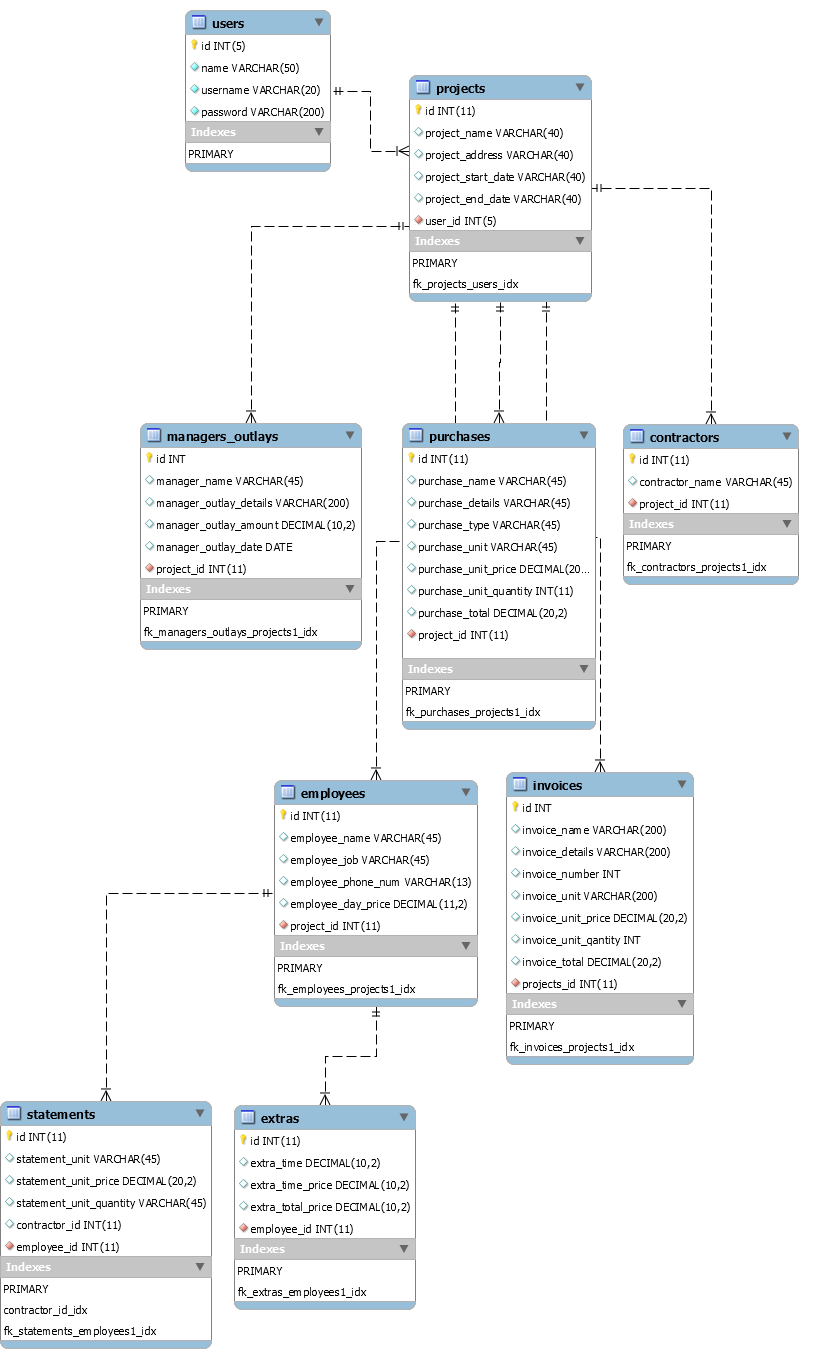
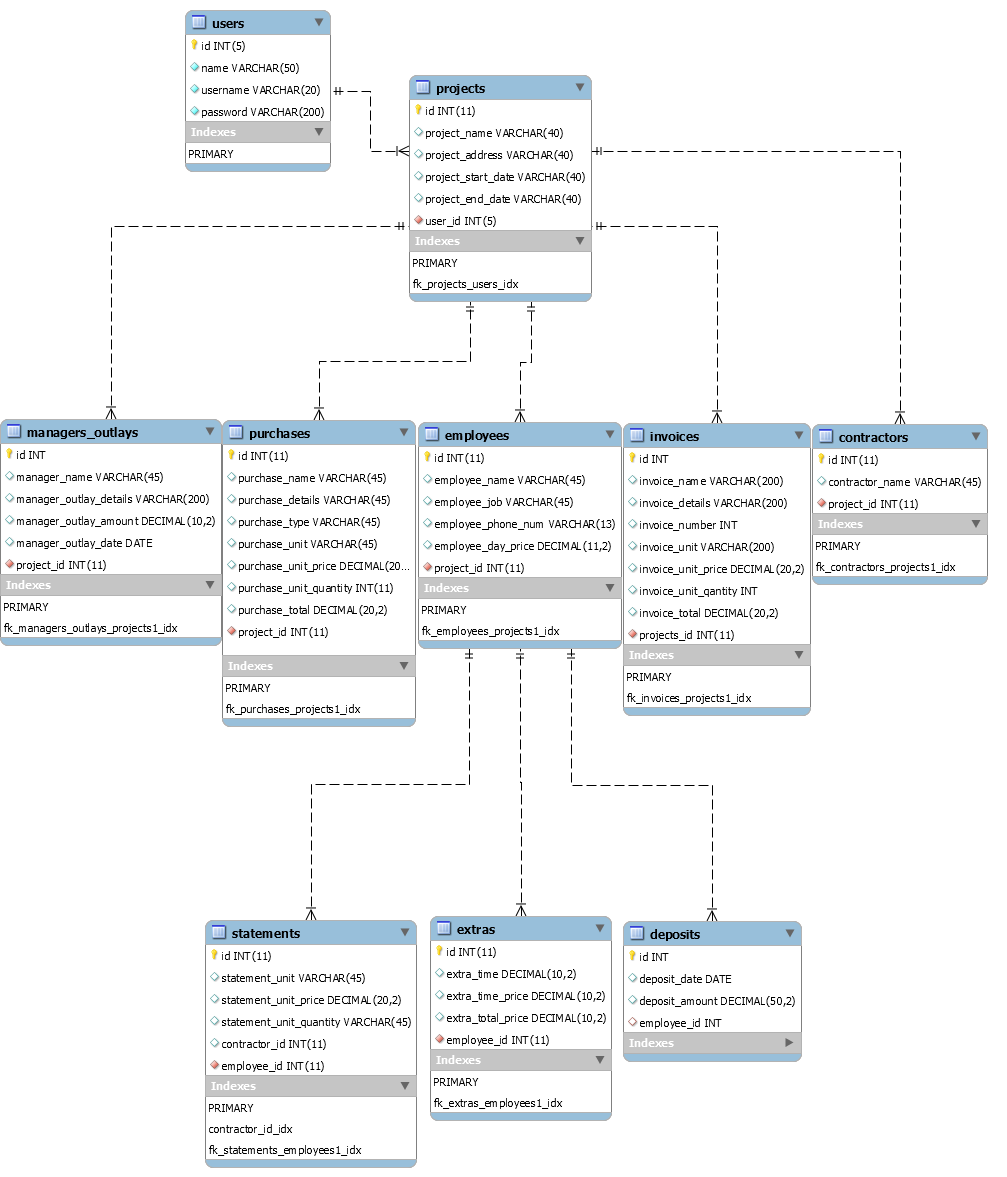
Updates for `deposit`

Changed region(s): [[0.0, 0.3059, 1.0, 1.0], [0.1834, 0.0, 0.7335, 0.2753]]

diff --git a/routes/deposits.js b/routes/deposits.js
@@ -1,0 +1,120 @@
+const express = require('express');
+const security = require('../security/security');
+const database = require('../models/database');
+const router = express.Router();
+
+const dbService = database.getDbServiceInstance();
+
+router.get('/:projectId/', security.checkAuthenticated, async (req, res) => {
+  const { projectId } = req.params;
+
+  const deposits = await dbService.getDepositsByProjectId(projectId);
+
+  res.render('deposits/index', { deposits: deposits, projectId: projectId });
+});
+
+router.get('/:projectId/new', security.checkAuthenticated, (req, res) => {
+  const { projectId } = req.params;
+
+  res.render('purchases/new', { projectId: projectId, label: false });
+});
+
+router.post('/:projectId/create', security.checkAuthenticated, async (req, res) => {
+  try {
+    const purchaseName = req.body.purchaseName;
+    const purchaseUnitPrice = req.body.purchaseUnitPrice;
+    const purchaseUnitQuantity = req.body.purchaseUnitQuantity;
+    const purchasTotal = purchaseUnitPrice * purchaseUnitQuantity;
+    const purchaseType = req.body.purchaseType;
+    const purchaseDetails = req.body.purchaseDetails;
+    const { projectId } = req.params;
+
+    await dbService.addNewPurchase(purchaseName, purchaseUnitPrice, purchaseUnitQuantity, purchasTotal, purchaseType, purchaseDetails, projectId);
+
+    res.redirect('/purchases/' + projectId);
+  } catch (error) {
+    console.log(error.message);
+    res.redirect('/purchases/' + projectId + '/new');
+  }
+});
+
+router.post('/:projectId/delete/:purchaseId', security.checkAuthenticated, async (req, res) => {
+  try {
+    const { projectId ,purchaseId } = req.params;
+
+    const result = await dbService.deletePurchaseById(purchaseId);
+
+    if (result) res.redirect('/purchases/' + projectId);
+  } catch (error) {
+    console.log(error.message);
+  }
+});
+
+router.get('/:projectId/info/:purchaseId', security.checkAuthenticated, async (req, res) => {
+  try {
+    const { projectId, purchaseId } = req.params;
+
+    const purchase = await dbService.getPurchaseById(purchaseId);
+
+    res.render('purchases/info', { purchase: purchase, projectId: projectId } );
+  } catch (error) {
+    console.log(error.message);
+  }
+});
+
+router.post('/:projectId/info/:purchaseId', security.checkAuthenticated, async (req, res) => {
+  try {
+    const { projectId, purchaseId } = req.params;
+
+    const purchase = await dbService.getPurchaseById(purchaseId);
+
+    res.redirect('/purchases/' + projectId );
+  } catch (error) {
+    console.log(error.message);
+  }
+});
+
+router.get('/:projectId/edit/:purchaseId', security.checkAuthenticated, async (req, res) => {
+  try {
+    const { projectId ,purchaseId } = req.params;
+
+    const purchase = await dbService.getPurchaseById(purchaseId);
+
+    res.render('purchases/edit', { purchase: purchase, projectId: projectId, label: false });
+  } catch (error) {
+    console.log(error.message);
+  }
+});
+
+router.post('/:projectId/edit/:purchaseId', security.checkAuthenticated, async (req, res) => {
+  try {
+    const purchaseName = req.body.purchaseName;
+    const purchaseUnitPrice = req.body.purchaseUnitPrice;
+    const purchaseUnitQuantity = req.body.purchaseUnitQuantity;
+    const purchasTotal = purchaseUnitPrice * purchaseUnitQuantity;
+    const purchaseType = req.body.purchaseType;
+    const purchaseDetails = req.body.purchaseDetails;
+    const { projectId, purchaseId } = req.params;
+
+    const result = await dbService.editPurchaseById(purchaseName, purchaseUnit, purchaseUnitPrice, purchaseUnitQuantity, purchasTotal, purchaseType, purchaseDetails, purchaseId);
+
+    res.redirect('/purchases/' + projectId);
+  } catch (error) {
+    console.log(error.message);
+  }
+});
+
+router.post('/:projectId/report/:purchaseId', security.checkAuthenticated, async (req, res) => {
+  try {
+    const { projectId, purchaseId } = req.params;
+
+    const result = await dbService.editPurchaseById(purchaseId, npurchaseName, npurchaseJob, npurchasePhoneNum);
+
+    res.redirect('/purchases/' + projectId);
+  } catch (error) {
+    console.log(error.message);
+  }
+});
+
+
+module.exports = router;

diff --git a/server.js b/server.js
@@ -18,6 +18,7 @@ const contractorsRouter = require('./routes/contractors');
 const managersRouter = require('./routes/managers');
 const purchasesRouter = require('./routes/purchases');
 const extrasRouter = require('./routes/extras');
+const depositsRouter = require('./routes/deposits');
 const deportesRouter = require('./routes/deportes');
 const reportsRouter = require('./routes/reports');
 
@@ -51,6 +52,7 @@ app.use('/contractors', contractorsRouter);
 app.use('/managers', managersRouter);
 app.use('/purchases', purchasesRouter);
 app.use('/extras', extrasRouter);
+app.use('/deposits', depositsRouter);
 app.use('/deportes', deportesRouter);
 app.use('/reports', reportsRouter);
 
